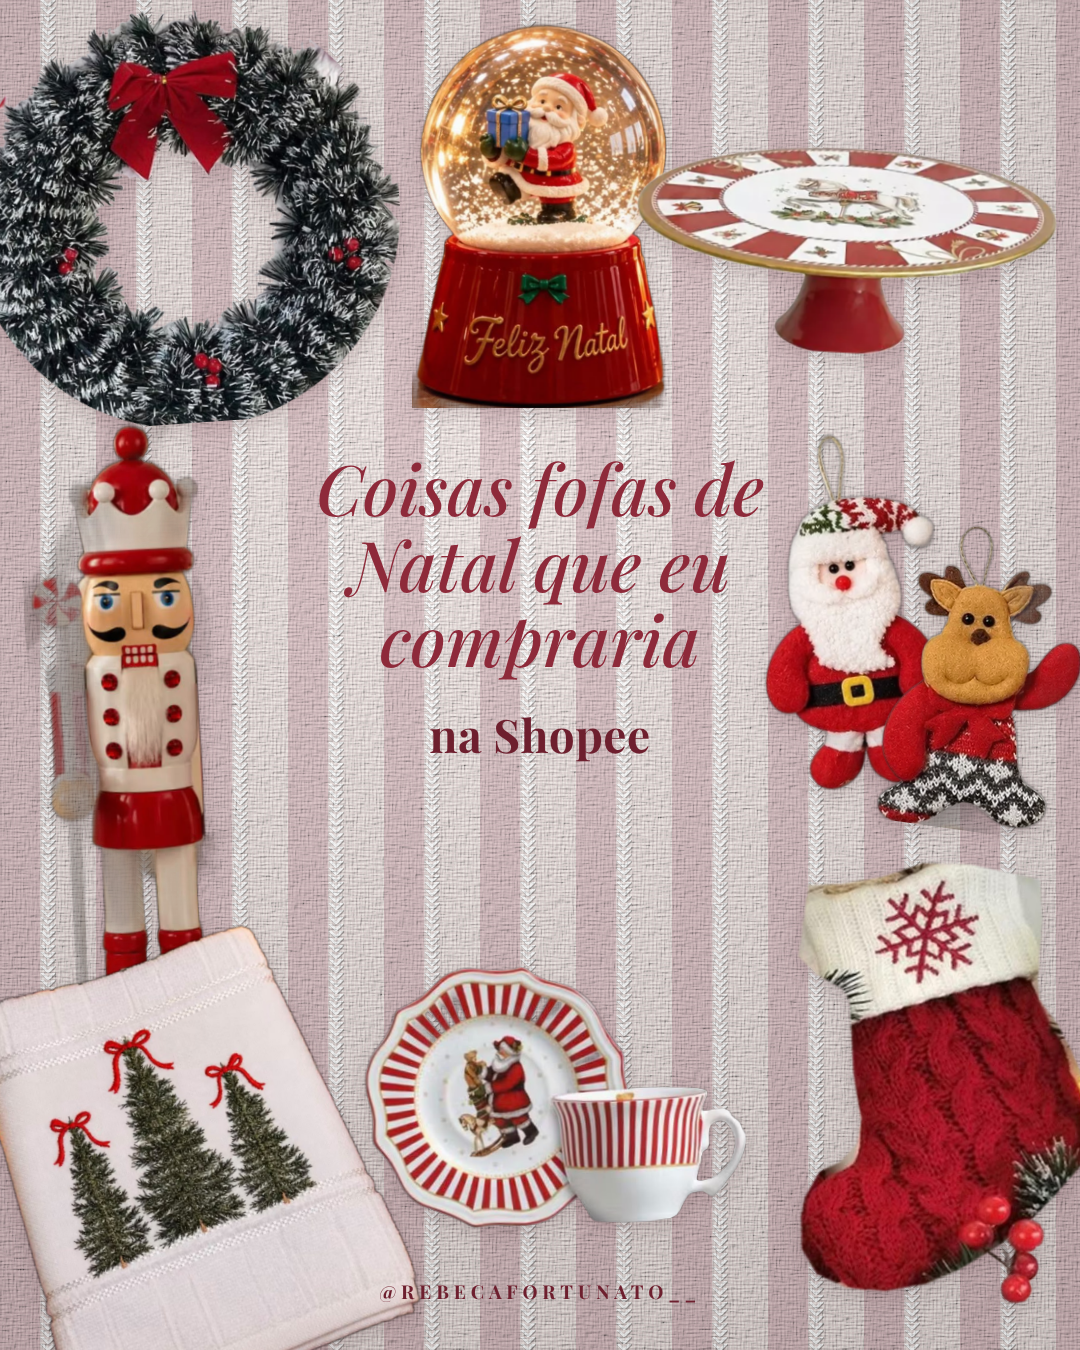
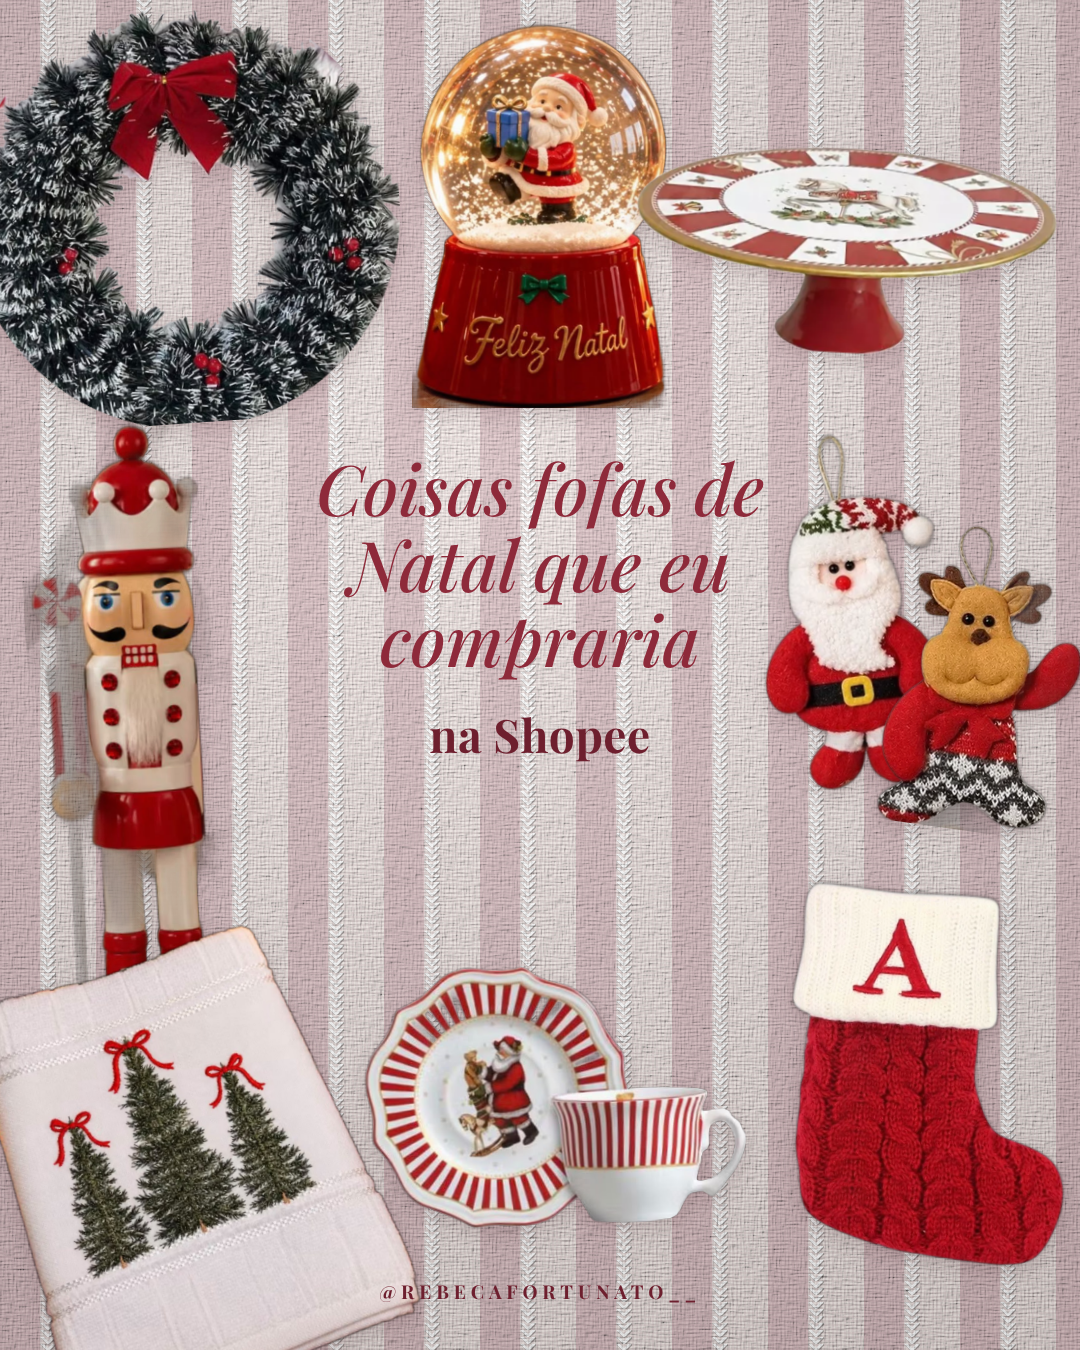
Achadinhos de Natal: meia nova com a letra A, foto de fundo branco
Claude-Session: https://claude.ai/code/session_01GVjzB1KzkYMHJxVq5zD7i2

Changed region(s): [[0.7333, 0.6222, 1.0, 0.9644]]

diff --git a/insta/achadinhos-natal.html b/insta/achadinhos-natal.html
@@ -40,7 +40,7 @@ body{margin:0;background:#333}
 <rect width="1080" height="1350" filter="url(#relevo1)" style="mix-blend-mode:multiply" opacity=".55"/>
 </svg><div class="luz"></div>
 
-<img class="prod" src="achadinhos/recortes/03-guirlanda.png" style="left:-30px;top:8px;width:430px;height:415px;transform:rotate(-4deg)"><img class="prod" src="achadinhos/recortes/08-globo.png" style="left:412px;top:22px;width:255px;height:386px;transform:rotate(0deg)"><img class="prod" src="achadinhos/recortes/06-boleira.png" style="left:635px;top:148px;width:420px;height:205px;transform:rotate(3deg)"><img class="prod" src="achadinhos/recortes/05-quebra-nozes.png" style="left:32px;top:420px;width:205px;height:680px;transform:rotate(-3deg)"><img class="prod" src="achadinhos/recortes/02a-papai-noel.png" style="left:758px;top:432px;width:185px;height:356px;transform:rotate(-6deg)"><img class="prod" src="achadinhos/recortes/02b-rena.png" style="left:890px;top:528px;width:190px;height:304px;transform:rotate(8deg)"><img class="prod" src="achadinhos/recortes/07-xicara.png" style="left:365px;top:965px;width:380px;height:260px;transform:rotate(-2deg)"><img class="prod" src="achadinhos/recortes/04-toalha.png" style="left:-15px;top:931px;width:420px;height:458px;transform:rotate(-6deg)"><img class="prod" src="achadinhos/recortes/01-meia.png" style="left:785px;top:861px;width:320px;height:438px;transform:rotate(6deg) scaleX(-1)"><div class="titulo"><div class="s" style="color:#8E2A3A">Coisas fofas de Natal que eu compraria</div><div class="n" style="color:#6E1F2E">na Shopee</div></div>
+<img class="prod" src="achadinhos/recortes/03-guirlanda.png" style="left:-30px;top:8px;width:430px;height:415px;transform:rotate(-4deg)"><img class="prod" src="achadinhos/recortes/08-globo.png" style="left:412px;top:22px;width:255px;height:386px;transform:rotate(0deg)"><img class="prod" src="achadinhos/recortes/06-boleira.png" style="left:635px;top:148px;width:420px;height:205px;transform:rotate(3deg)"><img class="prod" src="achadinhos/recortes/05-quebra-nozes.png" style="left:32px;top:420px;width:205px;height:680px;transform:rotate(-3deg)"><img class="prod" src="achadinhos/recortes/02a-papai-noel.png" style="left:758px;top:432px;width:185px;height:356px;transform:rotate(-6deg)"><img class="prod" src="achadinhos/recortes/02b-rena.png" style="left:890px;top:528px;width:190px;height:304px;transform:rotate(8deg)"><img class="prod" src="achadinhos/recortes/07-xicara.png" style="left:365px;top:965px;width:380px;height:260px;transform:rotate(-2deg)"><img class="prod" src="achadinhos/recortes/04-toalha.png" style="left:-15px;top:931px;width:420px;height:458px;transform:rotate(-6deg)"><img class="prod" src="achadinhos/recortes/01-meia.png" style="left:785px;top:890px;width:290px;height:369px;transform:rotate(5deg)"><div class="titulo"><div class="s" style="color:#8E2A3A">Coisas fofas de Natal que eu compraria</div><div class="n" style="color:#6E1F2E">na Shopee</div></div>
 <div class="at" style="color:#6E1F2E">@rebecafortunato__</div></div><div class="post" id="p2"><svg viewBox="0 0 1080 1350" width="1080" height="1350" style="position:absolute;inset:0">
 <defs>
   <pattern id="st2" width="96" height="7" patternUnits="userSpaceOnUse">
@@ -68,5 +68,5 @@ body{margin:0;background:#333}
 <rect width="1080" height="1350" filter="url(#relevo2)" style="mix-blend-mode:multiply" opacity=".55"/>
 </svg><div class="luz"></div>
 
-<img class="prod" src="achadinhos/recortes/03-guirlanda.png" style="left:-30px;top:8px;width:430px;height:415px;transform:rotate(-4deg)"><img class="prod" src="achadinhos/recortes/08-globo.png" style="left:412px;top:22px;width:255px;height:386px;transform:rotate(0deg)"><img class="prod" src="achadinhos/recortes/06-boleira.png" style="left:635px;top:148px;width:420px;height:205px;transform:rotate(3deg)"><img class="prod" src="achadinhos/recortes/05-quebra-nozes.png" style="left:32px;top:420px;width:205px;height:680px;transform:rotate(-3deg)"><img class="prod" src="achadinhos/recortes/02a-papai-noel.png" style="left:758px;top:432px;width:185px;height:356px;transform:rotate(-6deg)"><img class="prod" src="achadinhos/recortes/02b-rena.png" style="left:890px;top:528px;width:190px;height:304px;transform:rotate(8deg)"><img class="prod" src="achadinhos/recortes/07-xicara.png" style="left:365px;top:965px;width:380px;height:260px;transform:rotate(-2deg)"><img class="prod" src="achadinhos/recortes/04-toalha.png" style="left:-15px;top:931px;width:420px;height:458px;transform:rotate(-6deg)"><img class="prod" src="achadinhos/recortes/01-meia.png" style="left:785px;top:861px;width:320px;height:438px;transform:rotate(6deg) scaleX(-1)"><div class="titulo" style="background:rgba(243,233,223,.94);padding:44px 30px;border-radius:18px;left:270px;right:270px;top:430px;box-shadow:0 6px 24px rgba(0,0,0,.18)"><div class="s" style="color:#3F1019">Coisas fofas de Natal que eu compraria</div><div class="n" style="color:#3F1019">na Shopee</div></div>
+<img class="prod" src="achadinhos/recortes/03-guirlanda.png" style="left:-30px;top:8px;width:430px;height:415px;transform:rotate(-4deg)"><img class="prod" src="achadinhos/recortes/08-globo.png" style="left:412px;top:22px;width:255px;height:386px;transform:rotate(0deg)"><img class="prod" src="achadinhos/recortes/06-boleira.png" style="left:635px;top:148px;width:420px;height:205px;transform:rotate(3deg)"><img class="prod" src="achadinhos/recortes/05-quebra-nozes.png" style="left:32px;top:420px;width:205px;height:680px;transform:rotate(-3deg)"><img class="prod" src="achadinhos/recortes/02a-papai-noel.png" style="left:758px;top:432px;width:185px;height:356px;transform:rotate(-6deg)"><img class="prod" src="achadinhos/recortes/02b-rena.png" style="left:890px;top:528px;width:190px;height:304px;transform:rotate(8deg)"><img class="prod" src="achadinhos/recortes/07-xicara.png" style="left:365px;top:965px;width:380px;height:260px;transform:rotate(-2deg)"><img class="prod" src="achadinhos/recortes/04-toalha.png" style="left:-15px;top:931px;width:420px;height:458px;transform:rotate(-6deg)"><img class="prod" src="achadinhos/recortes/01-meia.png" style="left:785px;top:890px;width:290px;height:369px;transform:rotate(5deg)"><div class="titulo" style="background:rgba(243,233,223,.94);padding:44px 30px;border-radius:18px;left:270px;right:270px;top:430px;box-shadow:0 6px 24px rgba(0,0,0,.18)"><div class="s" style="color:#3F1019">Coisas fofas de Natal que eu compraria</div><div class="n" style="color:#3F1019">na Shopee</div></div>
 <div class="at" style="color:#3F1019;left:50%;right:auto;transform:translateX(-50%);background:rgba(243,233,223,.94);padding:10px 22px;border-radius:999px;bottom:40px">@rebecafortunato__</div></div></body></html>

diff --git a/insta/achadinhos-natal.py b/insta/achadinhos-natal.py
@@ -14,7 +14,7 @@ ITENS = [
     ("02b-rena", 985, 680, 190, 8, False),
     ("07-xicara", 555, 1095, 380, -2, False),
     ("04-toalha", 195, 1160, 420, -6, False),
-    ("01-meia", 945, 1080, 320, 6, True),
+    ("01-meia", 930, 1075, 290, 5, False),
 ]
 from PIL import Image
 def tag(nome, cx, cy, w, giro, esp):

diff --git a/insta/achadinhos/links.md b/insta/achadinhos/links.md
@@ -4,7 +4,7 @@ ID de afiliada da Rebeca na Shopee: an_18337811366 (todo link tem que levar esse
 
 | Nº | Produto | Link | Foto |
 |---|---|---|---|
-| 1 | Meia de Natal de tricô com inicial bordada | https://s.shopee.com.br/4qGtrvbCF0 | produtos/01-meia-inicial.jpg |
+| 1 | Meia de Natal de tricô com inicial bordada | https://s.shopee.com.br/4qGtrvbCF0 | produtos/01-meia-inicial.jpg, produtos/01-meia-inicial-fundo-branco.webp (usada na arte) |
 | 2 | Enfeites de pelúcia pra árvore (Papai Noel, boneco de neve e rena) | https://s.shopee.com.br/5VWafPX4nM | produtos/02-enfeites-pelucia.jpg, produtos/02-enfeites-pelucia-fundo-claro.webp (melhor pra recortar) |
 | 3 | Guirlanda de pinheiro nevado com laço vermelho | https://s.shopee.com.br/5q9R46GS2f | produtos/03-guirlanda-nevada.jpg |
 | 4 | Toalha branca bordada com pinheirinhos e laços | https://s.shopee.com.br/2gCPIewoR3 | produtos/04-toalha-pinheiros.jpg |
